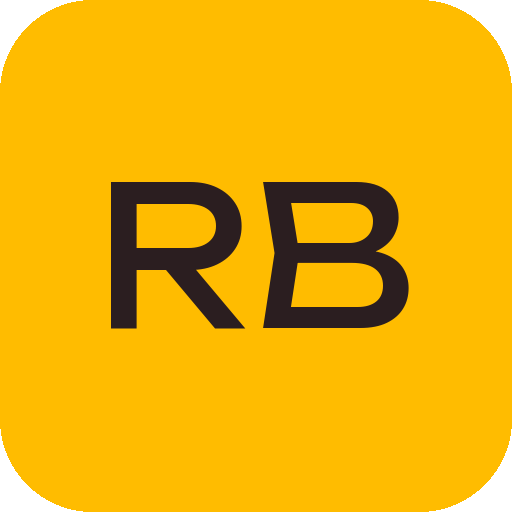
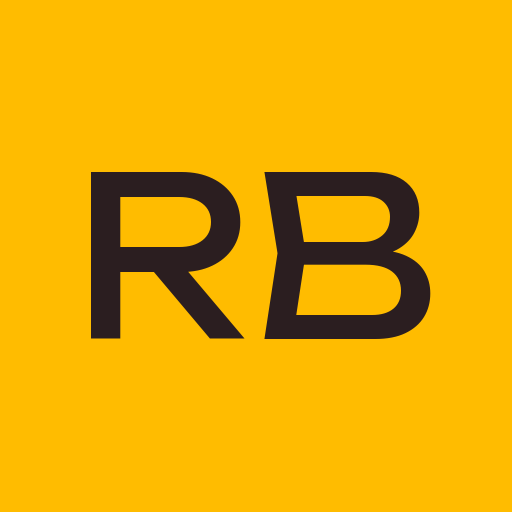
Torna o portfólio um PWA instalável.
O manifesto, os ícones amarelos de ponta a ponta, o service worker e o aviso de instalação cobrem Android, iOS e desktop.

diff --git a/components/pwa/PwaInstall.tsx b/components/pwa/PwaInstall.tsx
@@ -1,0 +1,113 @@
+"use client";
+
+import { IconShare2, IconX } from "@tabler/icons-react";
+import { useEffect, useState } from "react";
+
+type BeforeInstallPromptEvent = Event & {
+  prompt: () => Promise<void>;
+  userChoice: Promise<{ outcome: "accepted" | "dismissed" }>;
+};
+
+const DISMISS_KEY = "pwa-install-dismissed";
+
+function isStandalone() {
+  const nav = navigator as Navigator & { standalone?: boolean };
+  return window.matchMedia("(display-mode: standalone)").matches || Boolean(nav.standalone);
+}
+
+function isIos() {
+  const ua = window.navigator.userAgent;
+  const iPhone = /iPhone|iPad|iPod/i.test(ua);
+  const iPadOs = navigator.platform === "MacIntel" && navigator.maxTouchPoints > 1;
+  return iPhone || iPadOs;
+}
+
+export function PwaInstall() {
+  const [promptEvent, setPromptEvent] = useState<BeforeInstallPromptEvent | null>(null);
+  const [ios, setIos] = useState(false);
+  const [visible, setVisible] = useState(false);
+
+  useEffect(() => {
+    if (isStandalone()) return;
+    if (localStorage.getItem(DISMISS_KEY) === "1") return;
+
+    const onPrompt = (event: Event) => {
+      event.preventDefault();
+      setPromptEvent(event as BeforeInstallPromptEvent);
+      setVisible(true);
+    };
+    window.addEventListener("beforeinstallprompt", onPrompt);
+
+    if (isIos()) {
+      setIos(true);
+      setVisible(true);
+    }
+
+    return () => window.removeEventListener("beforeinstallprompt", onPrompt);
+  }, []);
+
+  useEffect(() => {
+    if (!("serviceWorker" in navigator)) return;
+    navigator.serviceWorker.register("/sw.js").catch(() => undefined);
+    let refreshing = false;
+    const onChange = () => {
+      if (refreshing) return;
+      refreshing = true;
+      window.location.reload();
+    };
+    navigator.serviceWorker.addEventListener("controllerchange", onChange);
+    return () => navigator.serviceWorker.removeEventListener("controllerchange", onChange);
+  }, []);
+
+  useEffect(() => {
+    const root = document.documentElement;
+    const apply = () => {
+      const color = root.classList.contains("dark") ? "#1E1416" : "#FFBC00";
+      document.querySelectorAll('meta[name="theme-color"]').forEach((meta) => meta.setAttribute("content", color));
+    };
+    apply();
+    const observer = new MutationObserver(apply);
+    observer.observe(root, { attributes: true, attributeFilter: ["class"] });
+    return () => observer.disconnect();
+  }, []);
+
+  function dismiss() {
+    localStorage.setItem(DISMISS_KEY, "1");
+    setVisible(false);
+  }
+
+  async function install() {
+    if (!promptEvent) return;
+    await promptEvent.prompt();
+    const choice = await promptEvent.userChoice;
+    if (choice.outcome === "accepted") setVisible(false);
+    setPromptEvent(null);
+  }
+
+  if (!visible) return null;
+
+  return (
+    <div className="fixed inset-x-3 bottom-28 z-30 mx-auto flex max-w-md items-start gap-3 rounded-2xl bg-ink px-4 py-3 text-white shadow-lg sm:bottom-6 sm:left-auto sm:right-4">
+      <div className="min-w-0 flex-1">
+        <p className="font-display text-sm font-semibold">Instalar app</p>
+        {ios ? (
+          <p className="mt-1 text-sm leading-snug text-white/80">
+            Toque em Compartilhar
+            <IconShare2 size={16} stroke={1.75} aria-hidden="true" className="mx-1 inline-block align-[-2px]" />
+            e depois em Adicionar à Tela de Início.
+          </p>
+        ) : (
+          <p className="mt-1 text-sm leading-snug text-white/80">Abra o portfólio como um app, com ícone na tela inicial.</p>
+        )}
+      </div>
+      {!ios && promptEvent && (
+        <button type="button" onClick={install} className="shrink-0 rounded-full bg-sun px-3 py-2 font-label text-xs font-extrabold uppercase tracking-[0.05em] text-ink italic">
+          Instalar
+        </button>
+      )}
+      <button type="button" onClick={dismiss} aria-label="Dispensar instalação" className="inline-flex size-11 shrink-0 items-center justify-center">
+        <IconX size={18} stroke={1.75} aria-hidden="true" />
+      </button>
+    </div>
+  );
+}

diff --git a/app/layout.tsx b/app/layout.tsx
@@ -1,6 +1,7 @@
 import type { Metadata, Viewport } from "next";
 import { Inter, Montserrat, Unbounded } from "next/font/google";
 import Script from "next/script";
+import { PwaInstall } from "@/components/pwa/PwaInstall";
 import { ThemeProvider } from "@/components/theme-provider";
 import "./globals.css";
 
@@ -49,6 +50,19 @@ export const metadata: Metadata = {
   authors: [{ name: "Rafael Blanco", url: "https://rafaelblanco.vercel.app" }],
   alternates: { canonical: "https://rafaelblanco.vercel.app" },
   robots: { index: true, follow: true },
+  appleWebApp: {
+    capable: true,
+    title: "Rafael",
+    statusBarStyle: "black-translucent",
+  },
+  icons: {
+    icon: [
+      { url: "/icon.svg", type: "image/svg+xml" },
+      { url: "/icon-192.png", sizes: "192x192", type: "image/png" },
+      { url: "/icon-512.png", sizes: "512x512", type: "image/png" },
+    ],
+    apple: [{ url: "/apple-touch-icon.png", sizes: "180x180" }],
+  },
   openGraph: {
     title: "Rafael Blanco | Desenvolvedor Full Stack",
     description,
@@ -67,8 +81,23 @@ export const metadata: Metadata = {
 };
 
 export const viewport: Viewport = {
-  themeColor: "#FFBC00",
+  themeColor: [
+    { media: "(prefers-color-scheme: light)", color: "#FFBC00" },
+    { media: "(prefers-color-scheme: dark)", color: "#1E1416" },
+  ],
 };
+
+const splash = [
+  { w: 440, h: 956, dpr: 3, file: "1320x2868" },
+  { w: 402, h: 874, dpr: 3, file: "1206x2622" },
+  { w: 430, h: 932, dpr: 3, file: "1290x2796" },
+  { w: 393, h: 852, dpr: 3, file: "1179x2556" },
+  { w: 428, h: 926, dpr: 3, file: "1284x2778" },
+  { w: 390, h: 844, dpr: 3, file: "1170x2532" },
+  { w: 414, h: 896, dpr: 2, file: "828x1792" },
+  { w: 375, h: 812, dpr: 3, file: "1125x2436" },
+  { w: 375, h: 667, dpr: 2, file: "750x1334" },
+];
 
 const jsonLd = {
   "@context": "https://schema.org",
@@ -97,11 +126,26 @@ const themeBoot = `(function(){try{var t=localStorage.getItem("theme");if(t!=="d
 export default function RootLayout({ children }: { children: React.ReactNode }) {
   return (
     <html lang="pt-BR" suppressHydrationWarning className={`${unbounded.variable} ${montserrat.variable} ${inter.variable}`}>
+      <head>
+        <meta name="apple-mobile-web-app-capable" content="yes" />
+        <meta name="mobile-web-app-capable" content="yes" />
+        {splash.map((item) => (
+          <link
+            key={item.file}
+            rel="apple-touch-startup-image"
+            href={`/splash/${item.file}.png`}
+            media={`(device-width: ${item.w}px) and (device-height: ${item.h}px) and (-webkit-device-pixel-ratio: ${item.dpr}) and (orientation: portrait)`}
+          />
+        ))}
+      </head>
       <body>
         <Script id="theme-boot" strategy="beforeInteractive">
           {themeBoot}
         </Script>
-        <ThemeProvider>{children}</ThemeProvider>
+        <ThemeProvider>
+          {children}
+          <PwaInstall />
+        </ThemeProvider>
         <script type="application/ld+json" dangerouslySetInnerHTML={{ __html: JSON.stringify(jsonLd) }} />
         <Script src="https://seeb-widget.pages.dev/widget.js" strategy="lazyOnload" />
       </body>

diff --git a/public/sw.js b/public/sw.js
@@ -1,0 +1,65 @@
+const CACHE = "rafael-blanco-v1";
+const PRECACHE = ["/", "/offline", "/manifest.webmanifest", "/icon-192.png", "/icon-512.png", "/icon-maskable-192.png", "/icon-maskable-512.png", "/apple-touch-icon.png", "/icon.svg"];
+
+self.addEventListener("install", (event) => {
+  event.waitUntil(
+    caches
+      .open(CACHE)
+      .then((cache) => cache.addAll(PRECACHE))
+      .then(() => self.skipWaiting()),
+  );
+});
+
+self.addEventListener("activate", (event) => {
+  event.waitUntil(
+    caches
+      .keys()
+      .then((keys) => Promise.all(keys.filter((key) => key !== CACHE).map((key) => caches.delete(key))))
+      .then(() => self.clients.claim()),
+  );
+});
+
+self.addEventListener("fetch", (event) => {
+  const request = event.request;
+  if (request.method !== "GET") return;
+
+  const url = new URL(request.url);
+  if (url.origin !== self.location.origin) return;
+
+  if (request.mode === "navigate") {
+    event.respondWith(networkFirst(request));
+    return;
+  }
+
+  const asset =
+    url.pathname.startsWith("/_next/static/") ||
+    url.pathname.startsWith("/images/") ||
+    url.pathname.startsWith("/splash/") ||
+    url.pathname.startsWith("/pwa/") ||
+    /\.(?:png|webp|svg|ico|woff2|jpg|jpeg)$/.test(url.pathname);
+
+  if (asset) event.respondWith(staleWhileRevalidate(request));
+});
+
+async function networkFirst(request) {
+  const cache = await caches.open(CACHE);
+  try {
+    const response = await fetch(request);
+    if (response.ok) cache.put(request, response.clone());
+    return response;
+  } catch {
+    return (await cache.match(request)) || (await cache.match("/offline")) || new Response("Offline", { status: 503 });
+  }
+}
+
+async function staleWhileRevalidate(request) {
+  const cache = await caches.open(CACHE);
+  const cached = await cache.match(request);
+  const network = fetch(request)
+    .then((response) => {
+      if (response.ok) cache.put(request, response.clone());
+      return response;
+    })
+    .catch(() => cached);
+  return cached || network;
+}

diff --git a/app/manifest.ts b/app/manifest.ts
@@ -3,16 +3,30 @@ import type { MetadataRoute } from "next";
 export default function manifest(): MetadataRoute.Manifest {
   return {
     name: "Rafael Blanco",
-    short_name: "RB",
+    short_name: "Rafael",
     description: "Portfólio de Rafael Blanco, desenvolvedor full stack em São Paulo.",
     start_url: "/",
+    scope: "/",
     display: "standalone",
+    display_override: ["window-controls-overlay", "standalone"],
+    orientation: "any",
     background_color: "#FFFBF2",
     theme_color: "#FFBC00",
     lang: "pt-BR",
+    categories: ["business", "productivity"],
     icons: [
-      { src: "/icon-192.png", sizes: "192x192", type: "image/png" },
-      { src: "/icon-512.png", sizes: "512x512", type: "image/png" },
+      { src: "/icon-192.png", sizes: "192x192", type: "image/png", purpose: "any" },
+      { src: "/icon-512.png", sizes: "512x512", type: "image/png", purpose: "any" },
+      { src: "/icon-maskable-192.png", sizes: "192x192", type: "image/png", purpose: "maskable" },
+      { src: "/icon-maskable-512.png", sizes: "512x512", type: "image/png", purpose: "maskable" },
+    ],
+    shortcuts: [
+      { name: "Projetos", short_name: "Projetos", url: "/#projetos" },
+      { name: "Contato", short_name: "Contato", url: "/#contato" },
+    ],
+    screenshots: [
+      { src: "/pwa/wide.png", sizes: "1280x720", type: "image/png", form_factor: "wide", label: "Portfólio de Rafael Blanco no desktop" },
+      { src: "/pwa/narrow.png", sizes: "390x844", type: "image/png", form_factor: "narrow", label: "Portfólio de Rafael Blanco no celular" },
     ],
   };
 }

diff --git a/app/offline/page.tsx b/app/offline/page.tsx
@@ -1,0 +1,16 @@
+export default function OfflinePage() {
+  return (
+    <main className="grid min-h-dvh place-items-center bg-paper px-6 text-center text-ink">
+      <div className="max-w-md">
+        <p className="font-display text-5xl font-bold tracking-[-0.04em]">RB</p>
+        <h1 className="mt-4 font-display text-3xl font-semibold tracking-[-0.03em]">Você está offline</h1>
+        <p className="mt-3 leading-relaxed text-ink/80">
+          O portfólio de Rafael Blanco não conseguiu falar com a rede. Quando a conexão voltar, a página atualiza sozinha.
+        </p>
+        <a href="/" className="mt-6 inline-flex rounded-full bg-sun px-5 py-3 font-label text-sm font-extrabold uppercase tracking-[0.06em] text-ink italic">
+          Tentar de novo
+        </a>
+      </div>
+    </main>
+  );
+}
